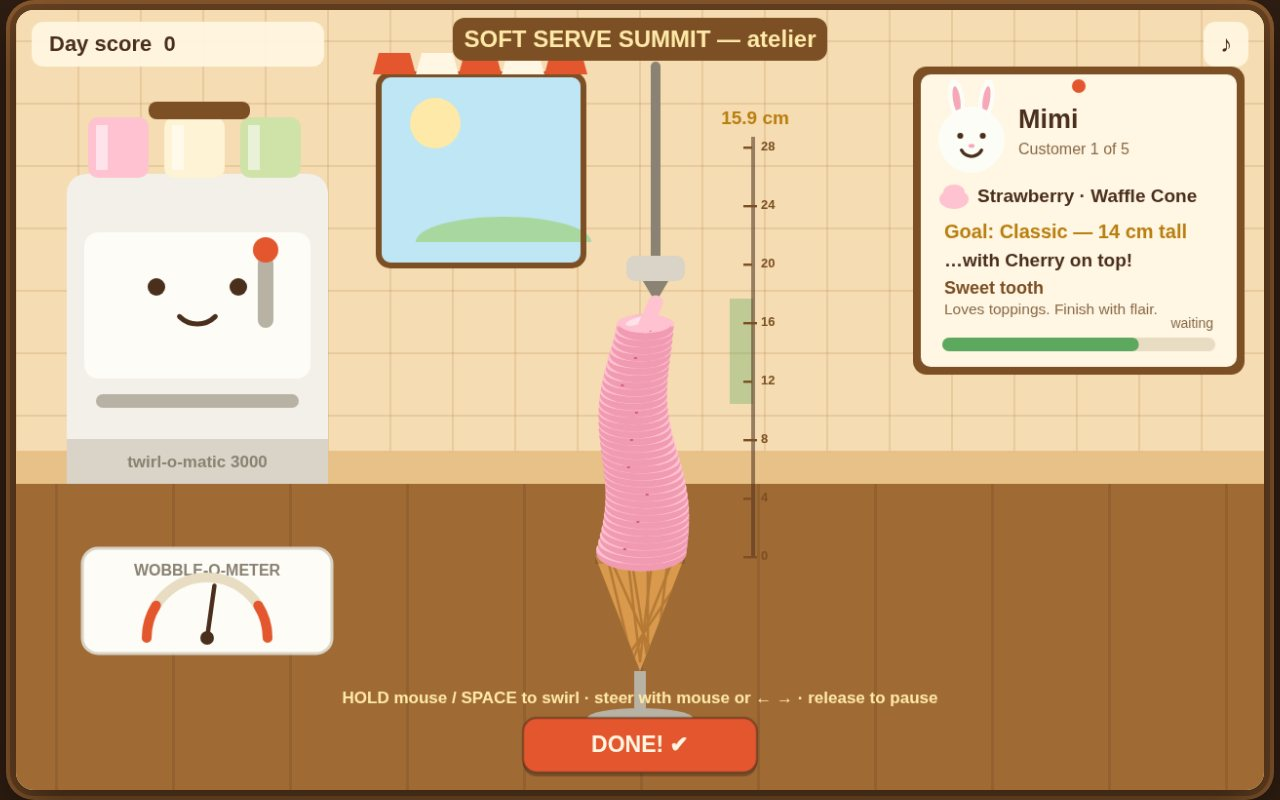
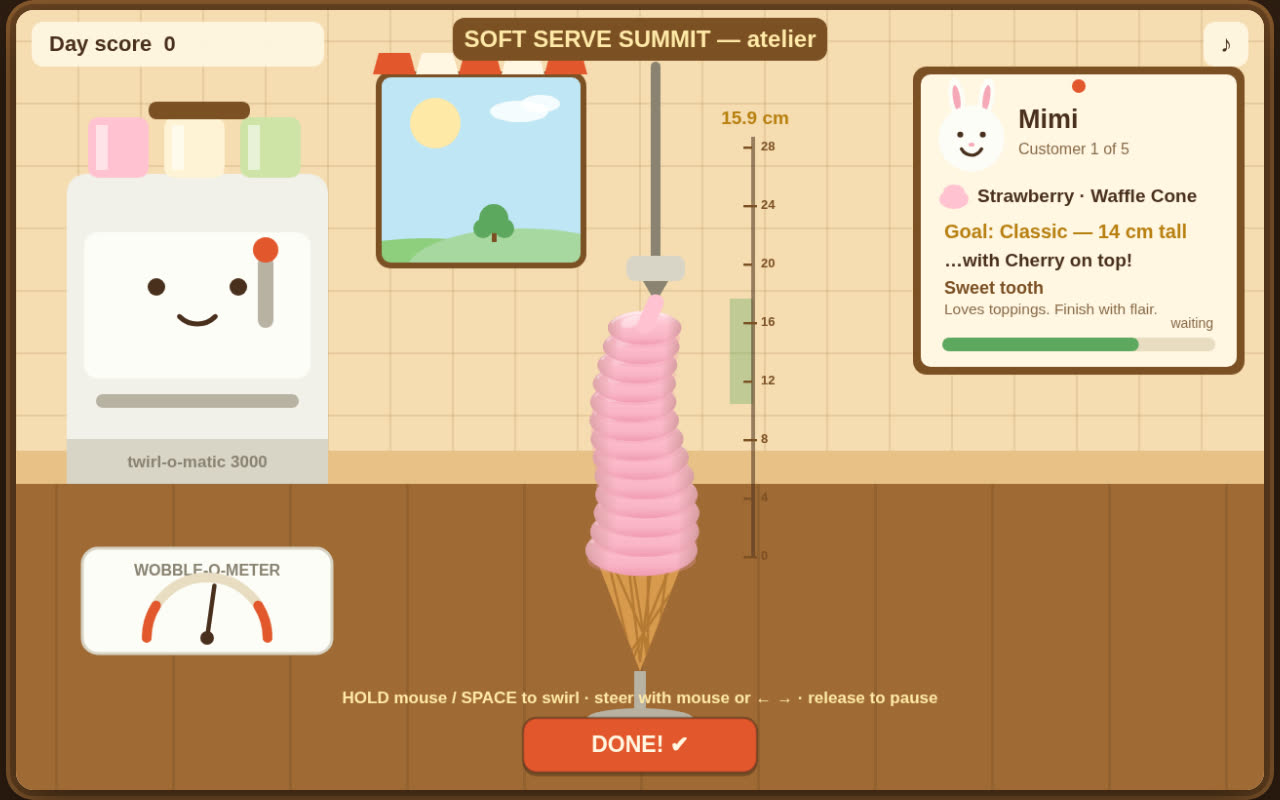
Plumper, creamier soft serve; clip the window view inside its frame
- Tower: fat piped rings (pitch 19px, ry 0.46r) with gradient bodies,
  soft groove shadows and gentle ridge light instead of thin discs;
  base radius 58 / tip 21 so the serve spills over the cone rim.
- Crown: a curled teardrop peak replaces the thin arc; sparkles on
  finished serves; flavour flecks removed (read as dirt specks).
- Window: the view is clipped to the frame; hills grounded on the
  frame's bottom edge, plus a cloud and a small tree, all inside.
- Screenshots retaken (real renders, all under 256 KiB); dossier
  regenerated and byte-identical across two runs.

diff --git a/game/src/render.js b/game/src/render.js
@@ -55,12 +55,31 @@ function drawRoom(ctx, state) {
   for (let y = 32; y < 452; y += 64) {
     ctx.beginPath(); ctx.moveTo(0, y); ctx.lineTo(FIELD.width, y); ctx.stroke();
   }
-  // Window with a striped awning, left of the ticket board.
-  fillRr(ctx, 372, 66, 210, 196, 12, '#bfe6f5');
+  // Window with a striped awning, left of the ticket board. The view is
+  // clipped to the frame, and the hills are grounded on the frame's
+  // bottom edge, so nothing floats past the wood.
+  ctx.save();
+  rr(ctx, 372, 66, 210, 196, 12); ctx.clip();
+  ctx.fillStyle = '#bfe6f5';
+  ctx.fillRect(372, 66, 210, 196);
   ctx.fillStyle = '#ffe9a8';
   ctx.beginPath(); ctx.arc(430, 116, 26, 0, Math.PI * 2); ctx.fill();
+  ctx.fillStyle = 'rgba(255,255,255,0.85)';
+  ctx.beginPath(); ctx.ellipse(516, 104, 30, 11, 0, 0, Math.PI * 2); ctx.fill();
+  ctx.beginPath(); ctx.ellipse(538, 96, 20, 9, 0, 0, Math.PI * 2); ctx.fill();
+  // Hills, both feet planted on the window's bottom edge (y = 262).
+  ctx.fillStyle = '#8fce7e';
+  ctx.beginPath(); ctx.ellipse(420, 268, 110, 34, 0, Math.PI, Math.PI * 2); ctx.fill();
   ctx.fillStyle = '#a8d8a0';
-  ctx.beginPath(); ctx.ellipse(500, 238, 90, 26, 0, Math.PI, Math.PI * 2); ctx.fill();
+  ctx.beginPath(); ctx.ellipse(520, 268, 120, 44, 0, Math.PI, Math.PI * 2); ctx.fill();
+  // One small tree on the nearer hill.
+  ctx.fillStyle = '#7c4f24';
+  ctx.fillRect(488, 224, 5, 14);
+  ctx.fillStyle = '#5da85f';
+  ctx.beginPath(); ctx.arc(490, 214, 15, 0, Math.PI * 2); ctx.fill();
+  ctx.beginPath(); ctx.arc(479, 224, 10, 0, Math.PI * 2); ctx.fill();
+  ctx.beginPath(); ctx.arc(501, 224, 10, 0, Math.PI * 2); ctx.fill();
+  ctx.restore();
   ctx.strokeStyle = WOOD_DARK; ctx.lineWidth = 6;
   rr(ctx, 372, 66, 210, 196, 12); ctx.stroke();
   for (let i = 0; i < 5; i += 1) {
@@ -154,14 +173,110 @@ export function drawCone(ctx, coneId, cx = CONE_X, topY = CONE_TOP_Y) {
   ctx.beginPath(); ctx.ellipse(cx, FLOOR_Y, 54, 10, 0, 0, Math.PI * 2); ctx.fill();
 }
 
-/** One swirl ring of the tower: a plump ellipse with a shaded underside. */
-function drawLayer(ctx, cx, cy, r, flavour) {
+/** Blend two hex colours: t = 0 gives `a`, t = 1 gives `b`. */
+function mixHex(a, b, t) {
+  const pa = [1, 3, 5].map((i) => parseInt(a.slice(i, i + 2), 16));
+  const pb = [1, 3, 5].map((i) => parseInt(b.slice(i, i + 2), 16));
+  const c = pa.map((v, i) => Math.round(v + (pb[i] - v) * t));
+  return `rgb(${c[0]},${c[1]},${c[2]})`;
+}
+
+/** Vertical pitch of one piped ring of the tower, in pixels. */
+const RING_PITCH = 19;
+
+/**
+ * One plump piped ring of the tower: a fat rounded band with a gradient
+ * body (lit on top, shaded underneath), a soft shadow cast on the ring
+ * below, dimmed flanks so it feels cylindrical, and a glossy ridge where
+ * the piping caught the light. Rings overlap heavily, so the stack reads
+ * as squeezed-out cream, not a pile of thin discs.
+ */
+function drawRing(ctx, cx, cy, r, flavour) {
+  const ry = Math.max(9.5, r * 0.46);
+  // The soft shadow this ring casts on the one below it: a wide, faint
+  // groove, never a hard line.
   ctx.fillStyle = flavour.shade;
-  ctx.beginPath(); ctx.ellipse(cx, cy + 3.5, r, r * 0.34 + 3.5, 0, 0, Math.PI * 2); ctx.fill();
-  ctx.fillStyle = flavour.body;
-  ctx.beginPath(); ctx.ellipse(cx, cy, r, r * 0.34, 0, 0, Math.PI * 2); ctx.fill();
-  ctx.fillStyle = 'rgba(255,255,255,0.5)';
-  ctx.beginPath(); ctx.ellipse(cx - r * 0.34, cy - r * 0.1, r * 0.42, r * 0.13, -0.3, 0, Math.PI * 2); ctx.fill();
+  ctx.globalAlpha = 0.3;
+  ctx.beginPath(); ctx.ellipse(cx, cy + RING_PITCH * 0.55, r * 0.97, ry * 0.6, 0, 0, Math.PI * 2); ctx.fill();
+  ctx.globalAlpha = 1;
+  // The body, shaded top to bottom so the ring reads round, not flat.
+  const grad = ctx.createLinearGradient(0, cy - ry, 0, cy + ry);
+  grad.addColorStop(0, mixHex(flavour.body, '#ffffff', 0.55));
+  grad.addColorStop(0.38, flavour.body);
+  grad.addColorStop(0.78, mixHex(flavour.body, flavour.shade, 0.35));
+  grad.addColorStop(1, flavour.shade);
+  ctx.fillStyle = grad;
+  ctx.beginPath(); ctx.ellipse(cx, cy, r, ry, 0, 0, Math.PI * 2); ctx.fill();
+  // Dim the flanks a touch, so the ring feels cylindrical.
+  const side = ctx.createLinearGradient(cx - r, 0, cx + r, 0);
+  side.addColorStop(0, 'rgba(96,54,20,0.20)');
+  side.addColorStop(0.22, 'rgba(96,54,20,0)');
+  side.addColorStop(0.8, 'rgba(96,54,20,0)');
+  side.addColorStop(1, 'rgba(96,54,20,0.24)');
+  ctx.fillStyle = side;
+  ctx.beginPath(); ctx.ellipse(cx, cy, r, ry, 0, 0, Math.PI * 2); ctx.fill();
+  // The piped ridge catching the light along the top of the ring.
+  ctx.strokeStyle = 'rgba(255,255,255,0.38)';
+  ctx.lineWidth = Math.max(2, r * 0.055);
+  ctx.lineCap = 'round';
+  ctx.beginPath(); ctx.ellipse(cx, cy - ry * 0.06, r * 0.92, ry * 0.84, 0, Math.PI * 1.1, Math.PI * 1.7); ctx.stroke();
+  // A glossy dab on the upper left.
+  ctx.fillStyle = 'rgba(255,255,255,0.35)';
+  ctx.beginPath(); ctx.ellipse(cx - r * 0.36, cy - ry * 0.36, r * 0.3, ry * 0.3, -0.35, 0, Math.PI * 2); ctx.fill();
+}
+
+/** The curled peak at the very top: a plump teardrop with a flicked curl. */
+function drawTip(ctx, cx, cy, r, flavour) {
+  const w = Math.max(10, r * 0.55);
+  const h = Math.max(22, r * 1.05);
+  const grad = ctx.createLinearGradient(0, cy - h, 0, cy + 4);
+  grad.addColorStop(0, mixHex(flavour.body, '#ffffff', 0.5));
+  grad.addColorStop(0.55, flavour.body);
+  grad.addColorStop(1, mixHex(flavour.body, flavour.shade, 0.5));
+  ctx.fillStyle = grad;
+  ctx.beginPath();
+  ctx.moveTo(cx - w, cy + 4);
+  ctx.quadraticCurveTo(cx - w * 0.85, cy - h * 0.7, cx + w * 0.1, cy - h * 0.92);
+  ctx.quadraticCurveTo(cx + w * 0.72, cy - h * 1.06, cx + w * 0.78, cy - h * 0.6);
+  ctx.quadraticCurveTo(cx + w * 0.9, cy - h * 0.2, cx + w, cy + 4);
+  ctx.quadraticCurveTo(cx, cy + w * 0.28, cx - w, cy + 4);
+  ctx.closePath(); ctx.fill();
+  // The little flick where the peak curls over.
+  ctx.strokeStyle = mixHex(flavour.body, '#ffffff', 0.35);
+  ctx.lineWidth = Math.max(3.5, r * 0.14);
+  ctx.lineCap = 'round';
+  ctx.beginPath(); ctx.arc(cx + w * 0.34, cy - h * 0.9, w * 0.3, Math.PI * 0.75, Math.PI * 1.95); ctx.stroke();
+  // Gloss on the peak's shoulder.
+  ctx.fillStyle = 'rgba(255,255,255,0.4)';
+  ctx.beginPath(); ctx.ellipse(cx - w * 0.3, cy - h * 0.42, w * 0.26, h * 0.16, -0.4, 0, Math.PI * 2); ctx.fill();
+}
+
+/** A tiny four-point sparkle, for finished serves. */
+function drawSparkle(ctx, x, y, s, colour) {
+  ctx.fillStyle = colour;
+  ctx.beginPath();
+  ctx.moveTo(x, y - s);
+  ctx.quadraticCurveTo(x, y, x + s, y);
+  ctx.quadraticCurveTo(x, y, x, y + s);
+  ctx.quadraticCurveTo(x, y, x - s, y);
+  ctx.quadraticCurveTo(x, y, x, y - s);
+  ctx.closePath(); ctx.fill();
+}
+
+/** The tower's centre offset at height `y`, smoothed from its layers. */
+function dxAt(tower, y) {
+  const layers = tower.layers;
+  if (!layers.length) return tower.lean || 0;
+  if (y <= layers[0].y) return layers[0].dx;
+  for (let i = 1; i < layers.length; i += 1) {
+    if (y <= layers[i].y) {
+      const a = layers[i - 1];
+      const b = layers[i];
+      const t = (y - a.y) / Math.max(1, b.y - a.y);
+      return a.dx + (b.dx - a.dx) * t;
+    }
+  }
+  return layers[layers.length - 1].dx;
 }
 
 /** Toppings, drawn at the tower's crown once chosen. */
@@ -222,27 +337,29 @@ export function drawTower(ctx, tower, flavourId, toppings, cx = CONE_X, topY = C
     ctx.rotate(dir * fall * 1.35);
     ctx.translate(-cx, -topY);
   }
-  // Bottom layer first, so higher swirls overlap the ones below.
-  for (const layer of tower.layers) {
-    drawLayer(ctx, cx + layer.dx, topY - layer.y, layer.r, flavour);
-  }
   if (tower.heightPx > 0) {
-    // The crown: one last plump swirl and, once finished, a curly tip.
-    const topDx = tower.layers.length ? tower.layers[tower.layers.length - 1].dx : 0;
+    // Plump piped rings from the cone up: fat overlapping swirls, each a
+    // little narrower than the one below, crowned by one last ring, a
+    // curled peak, and — for a serve that made it — a little sparkle.
+    const topDx = dxAt(tower, tower.heightPx);
+    const crownR = radiusAt(tower.heightPx);
     const crownY = topY - tower.heightPx;
-    drawLayer(ctx, cx + topDx, crownY, radiusAt(tower.heightPx) * 0.92, flavour);
+    const ringYs = [];
+    for (let y = 6; y < tower.heightPx; y += RING_PITCH) ringYs.push(y);
+    if (!ringYs.length || tower.heightPx - ringYs[ringYs.length - 1] > 6) ringYs.push(tower.heightPx);
+    for (const y of ringYs) {
+      drawRing(ctx, cx + dxAt(tower, y), topY - y, radiusAt(y), flavour);
+    }
     if (tower.finished || tower.toppled) {
-      ctx.strokeStyle = flavour.body; ctx.lineWidth = 7; ctx.lineCap = 'round';
-      ctx.beginPath();
-      ctx.arc(cx + topDx + 5, crownY - 8, 8, Math.PI * 0.9, Math.PI * 2.15);
-      ctx.stroke();
+      drawTip(ctx, cx + topDx, crownY - crownR * 0.18, crownR, flavour);
     }
     if (toppings && toppings.length) drawToppings(ctx, toppings, cx + topDx, crownY - 6, flavour);
-    // A few flavour flecks for texture.
-    ctx.fillStyle = flavour.fleck;
-    for (let i = 0; i < tower.layers.length; i += 4) {
-      const layer = tower.layers[i];
-      ctx.fillRect(cx + layer.dx - layer.r * 0.4 + (i % 3) * 8, topY - layer.y - 1, 3, 2);
+    if (tower.finished && !tower.toppled) {
+      ctx.globalAlpha = 0.9;
+      drawSparkle(ctx, cx + topDx - crownR - 15, crownY - 14, 7, GOLD);
+      drawSparkle(ctx, cx + topDx + crownR + 17, crownY + 8, 5.5, '#ffffff');
+      drawSparkle(ctx, cx + topDx + 12, crownY - crownR - 28, 5, GOLD);
+      ctx.globalAlpha = 1;
     }
   }
   ctx.restore();
@@ -443,7 +560,7 @@ function drawNozzle(ctx, state) {
   ctx.closePath(); ctx.fill();
   if (state.holding && !state.tower.toppled) {
     // The stream of soft serve, nozzle to tower.
-    ctx.strokeStyle = FLAVOURS[state.customer.flavour].body; ctx.lineWidth = 15;
+    ctx.strokeStyle = FLAVOURS[state.customer.flavour].body; ctx.lineWidth = 17;
     ctx.beginPath(); ctx.moveTo(nx, topY - 22); ctx.lineTo(CONE_X + state.tower.lean, topY + 2); ctx.stroke();
   }
 }

diff --git a/game/src/config.js b/game/src/config.js
@@ -23,9 +23,10 @@ export const FLOOR_Y = 726;
 export const GROW_PER_SECOND = 58;
 /** A scoring layer is recorded every time the tower grows this many pixels. */
 export const LAYER_STEP = 7;
-/** Radius of the bottom swirl and of the tip, in pixels. */
-export const RADIUS_BASE = 47;
-export const RADIUS_TIP = 15;
+/** Radius of the bottom swirl and of the tip, in pixels. Plump on purpose:
+ * a real serve spills a little over the cone's rim. */
+export const RADIUS_BASE = 58;
+export const RADIUS_TIP = 21;
 
 /** Lean (pixels of top offset) that topples the tower, by height: taller is touchier. */
 export function toppleLimit(heightPx) {
